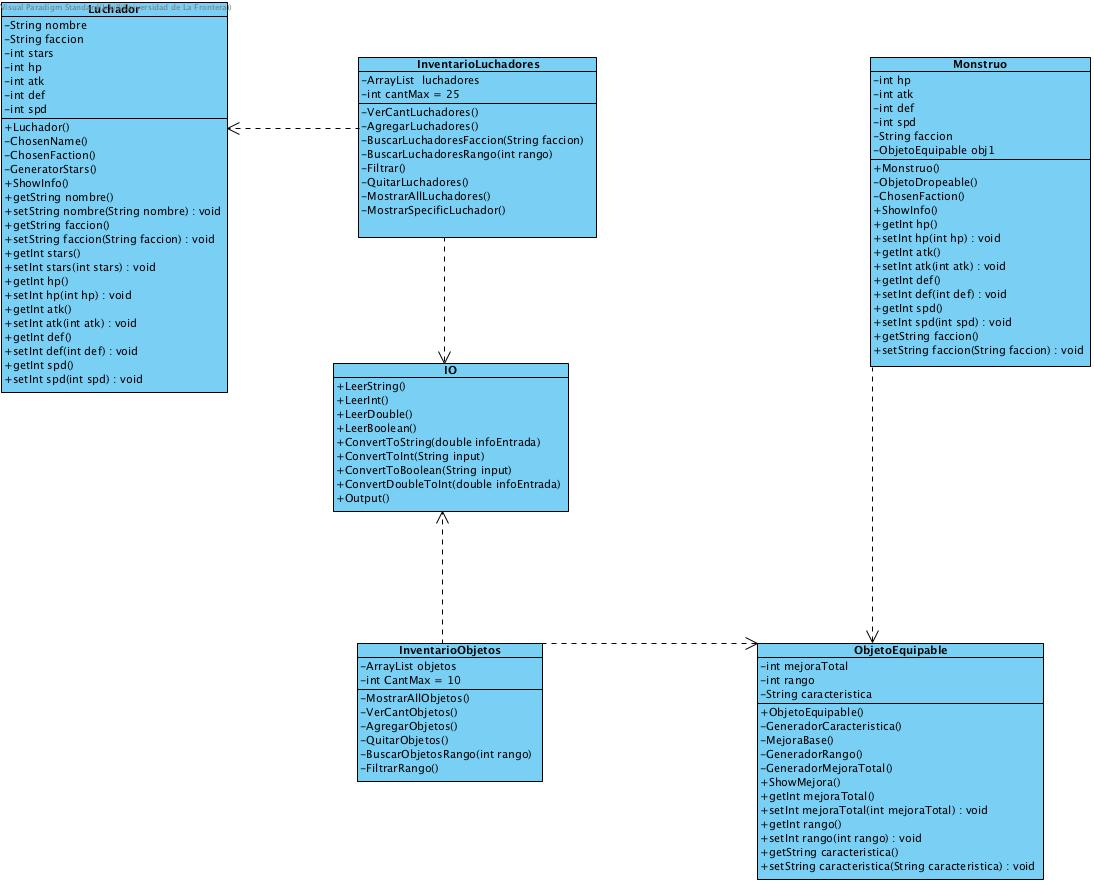
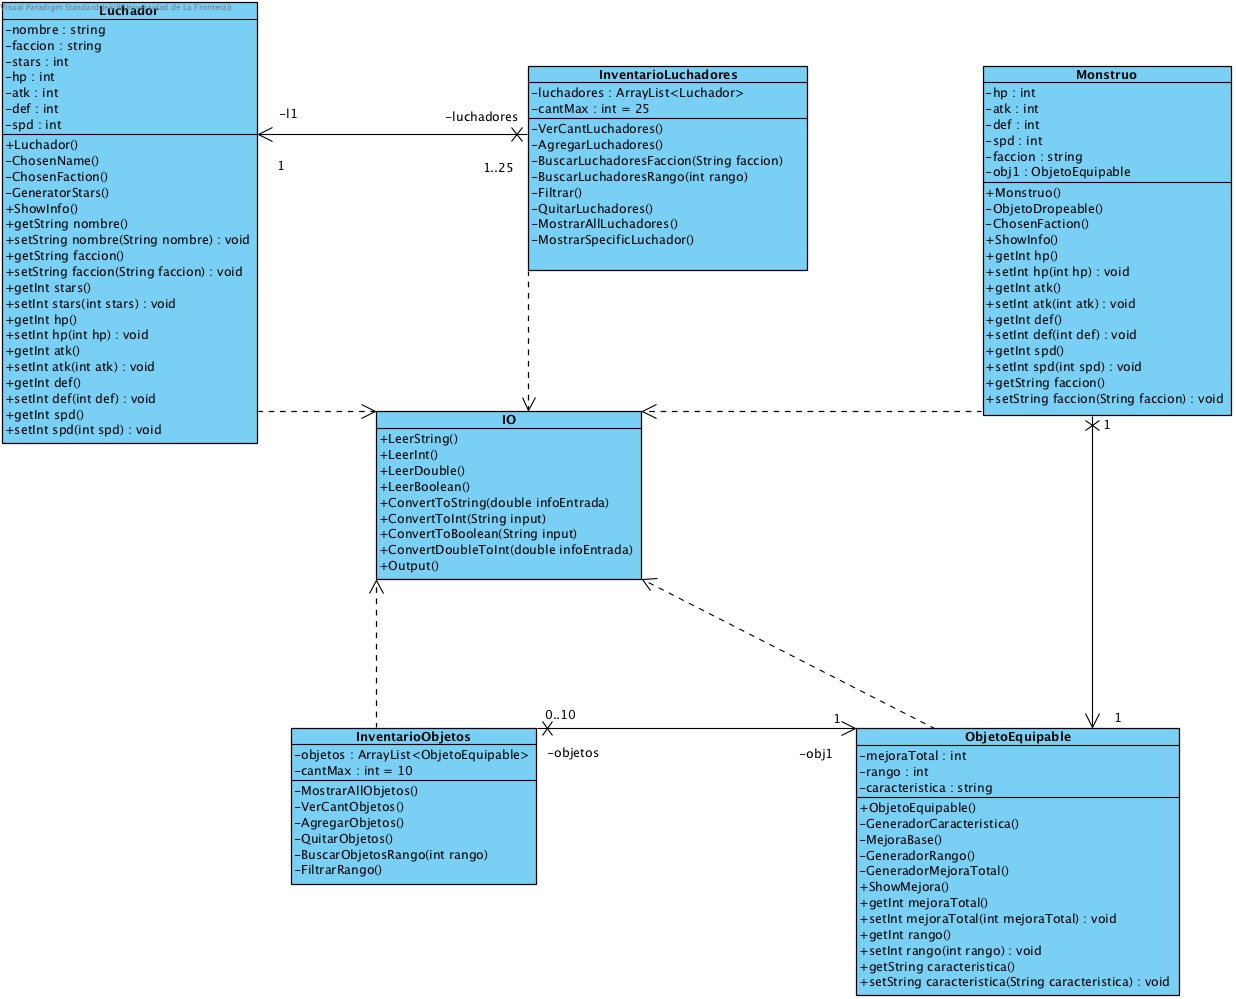
Add files via upload

diff --git a/InventarioLuchadores.java b/InventarioLuchadores.java
@@ -9,14 +9,14 @@ public class InventarioLuchadores{
     private int cantMax=25;
     
     private int VerCantLuchadores(){
-        return luchadores.size();    
+        return this.luchadores.size();    
     }
     
     private void AgregarLuchadores(){
-        Luchador L1 = new Luchador();
+        Luchador l1 = new Luchador();
         
-        if(luchadores.size()<=cantMax){
-            luchadores.add(L1);
+        if(this.luchadores.size()<=cantMax){
+            this.luchadores.add(l1);
         }
         else{
             IO.Output("Inventario lleno");
@@ -27,9 +27,9 @@ public class InventarioLuchadores{
     private void BuscarLuchadoresFaccion(String faccion) {
         int i;
         
-        for(i=0; i<luchadores.size();i++){
-            if(luchadores.get(i).getFaccion().equals(faccion)){
-            IO.Output("El luchador numero "+(i-1)+" corresponde a la busqueda");  
+        for(i=0; i<this.luchadores.size();i++){
+            if(this.luchadores.get(i).getFaccion().equals(faccion)){
+                IO.Output("El luchador numero "+(i-1)+" corresponde a la busqueda");  
             }
         }
     }
@@ -37,9 +37,9 @@ public class InventarioLuchadores{
     private void BuscarLuchadoresRango(int rango) {
         int i;
         
-        for(i=0; i<luchadores.size();i++){
-            if(luchadores.get(i).getRango() == rango){
-            IO.Output("El luchador numero "+(i-1)+" corresponde a la busqueda");  
+        for(i=0; i<this.luchadores.size();i++){
+            if(this.luchadores.get(i).getRango() == rango){
+                IO.Output("El luchador numero "+(i-1)+" corresponde a la busqueda");  
             }
         }  
     }
@@ -53,7 +53,7 @@ public class InventarioLuchadores{
         IO.Output("2. Filtrar por Rango");
         opc = IO.LeerInt();
         
-            if(opc>0 && opc<2){
+            if(opc>0 && opc<3){
                 String entrada="";
             
                 switch(opc){
@@ -83,16 +83,16 @@ public class InventarioLuchadores{
         IO.Output("Seleccione el numero del luchador a eliminar");
         opc = IO.LeerInt()-1;
         }
-        while(opc>-1 && opc<luchadores.size()-1);
-            luchadores.remove(opc);
+        while(opc>-1 && opc<this.luchadores.size()-1);
+            this.luchadores.remove(opc);
     }
     
     private void MostrarAllLuchadores(){
-        for(int x=0;x<luchadores.size();x++) {
+        for(int x=0;x<this.luchadores.size();x++) {
             IO.Output((x+1)+".");
-            IO.Output("Nombre: "+luchadores.get(x).getNombre());
-            IO.Output("Facción: "+luchadores.get(x).getFaccion());
-            IO.Output("Rango: "+ luchadores.get(x).getRango());
+            IO.Output("Nombre: "+ this.luchadores.get(x).getNombre());
+            IO.Output("Facción: "+ this.luchadores.get(x).getFaccion());
+            IO.Output("Rango: "+ this.luchadores.get(x).getRango());
         }
     }
     
@@ -104,15 +104,15 @@ public class InventarioLuchadores{
             MostrarAllLuchadores();
             opc= IO.LeerInt()-1;
             
-            if(opc>-1 && opc<luchadores.size()-1){
-                luchadores.get(opc).showInfo();
+            if(opc>-1 && opc<this.luchadores.size()-1){
+                this.luchadores.get(opc).ShowInfo();
             }
             else{
                 IO.Output("Error, opción no válida");
             }
             
         }
-        while(opc>0 && opc<luchadores.size());
+        while(opc>0 && opc<this.luchadores.size());
     }
  
 

diff --git a/InventarioObjetos.java b/InventarioObjetos.java
@@ -11,23 +11,23 @@ public class InventarioObjetos{
     
     
     private void MostrarAllObjetos(){
-        for(int x=0;x<objetos.size();x++) {
+        for(int x=0;x<this.objetos.size();x++) {
             IO.Output((x+1)+".");
-            IO.Output("Caracteristica: "+objetos.get(x).getCaracteristica());
-            IO.Output("Rango: "+objetos.get(x).getRango());
-            IO.Output("Mejora Total: "+objetos.get(x).getMejoraTotal());
+            IO.Output("Caracteristica: "+this.objetos.get(x).getCaracteristica());
+            IO.Output("Rango: "+this.objetos.get(x).getRango());
+            IO.Output("Mejora Total: "+this.objetos.get(x).getMejoraTotal());
         }
     }
     
     private int VerCantObjetos(){
-        return objetos.size();    
+        return this.objetos.size();    
     }
     
     private void AgregarObjetos(){
         ObjetoEquipable obj1 = new ObjetoEquipable();
         
-        if(objetos.size()<=cantMax){
-            objetos.add(obj1);
+        if(this.objetos.size()<=cantMax){
+            this.objetos.add(obj1);
         }
         else{
             IO.Output("Inventario lleno");
@@ -42,15 +42,15 @@ public class InventarioObjetos{
         IO.Output("Seleccione el numero del luchador a eliminar");
         opc = IO.LeerInt()-1;
         }
-        while(opc>-1 && opc<objetos.size()-1);
-            objetos.remove(opc);
+        while(opc>-1 && opc<this.objetos.size()-1);
+            this.objetos.remove(opc);
     }
     
     private void BuscarLuchadoresRango(int rango) {
         int i;
         
-        for(i=0; i<objetos.size();i++){
-            if(objetos.get(i).getRango() == rango){
+        for(i=0; i<this.objetos.size();i++){
+            if(this.objetos.get(i).getRango() == rango){
             IO.Output("El luchador numero "+(i-1)+" corresponde a la busqueda");  
             }
         }  

diff --git a/Luchador.java b/Luchador.java
@@ -28,23 +28,7 @@ public class Luchador {
     private String ChosenName(){
         int opc=0;
         String name="";
-        
-        //IO.Output("Seleccione un nombre");
-        //IO.Output("1.Manjarsh");
-        //IO.Output("2.Zafrada");
-        //IO.Output("3.Vidal");
-        //IO.Output("4.Junior Playboy");
-        //IO.Output("5.Laarson");
-        //IO.Output("6.Tío Emilio");
-        //IO.Output("7.Alexis");
-        //IO.Output("8.Salfate");
-        //IO.Output("9.Pedro Angel");
-        //IO.Output("10.Profesor Rosa");
-        //IO.Output("11.Guru Guru");
-        //IO.Output("12.Censista");
-        //IO.Output("13.Pastor Soto");
-        //IO.Output("14.Kramer");
-        //IO.Output("15.Julio Cesar");
+
         opc= ThreadLocalRandom.current().nextInt(1,15+1);
         
             switch(opc){
@@ -89,10 +73,6 @@ public class Luchador {
         int opc=0;
         String faction="";
 
-        //IO.Output("Seleccione una facción");
-        //IO.Output("1.Fuego");
-        //IO.Output("2.Agua");
-        //IO.Output("3.Tierra");
         opc= ThreadLocalRandom.current().nextInt(1,3+1);
         
         switch(opc){
@@ -132,7 +112,7 @@ public class Luchador {
         return estrellas;
     }
 
-    public void showInfo(){
+    public void ShowInfo(){
     
        IO.Output("El nombre es: "+ getNombre());
        IO.Output("La facción es: "+ getFaccion());

diff --git a/Monstruo.java b/Monstruo.java
@@ -9,7 +9,7 @@ public class Monstruo {
     private int def;
     private int spd;
     private String faccion;
-    ObjetoEquipable obj1 = new ObjetoEquipable();
+    ObjetoEquipable obj1; 
     
     public Monstruo (){
         
@@ -18,20 +18,17 @@ public class Monstruo {
         this.def = (ThreadLocalRandom.current().nextInt(5,25+1));
         this.spd = (ThreadLocalRandom.current().nextInt(10,100+1));
         this.faccion= ChosenFaction();
+        this.obj1 = new ObjetoEquipable();
     }
     
     private void ObjetoDropeable(){
-        obj1.ShowMejora();
+        this.obj1.ShowMejora();
     }
     
     private String ChosenFaction(){
         int opc=0;
         String faction="";
 
-        //IO.Output("Seleccione una facción");
-        //IO.Output("1.Fuego");
-        //IO.Output("2.Agua");
-        //IO.Output("3.Tierra");
         opc= ThreadLocalRandom.current().nextInt(1,3+1);
         
         switch(opc){
@@ -46,7 +43,7 @@ public class Monstruo {
         IO.Output("");
         return faction;
     }
-    public void showInfo(){
+    public void ShowInfo(){
  
        IO.Output("El ataque es: "+ getAtk());
        IO.Output("La defensa es: "+ getDef());
